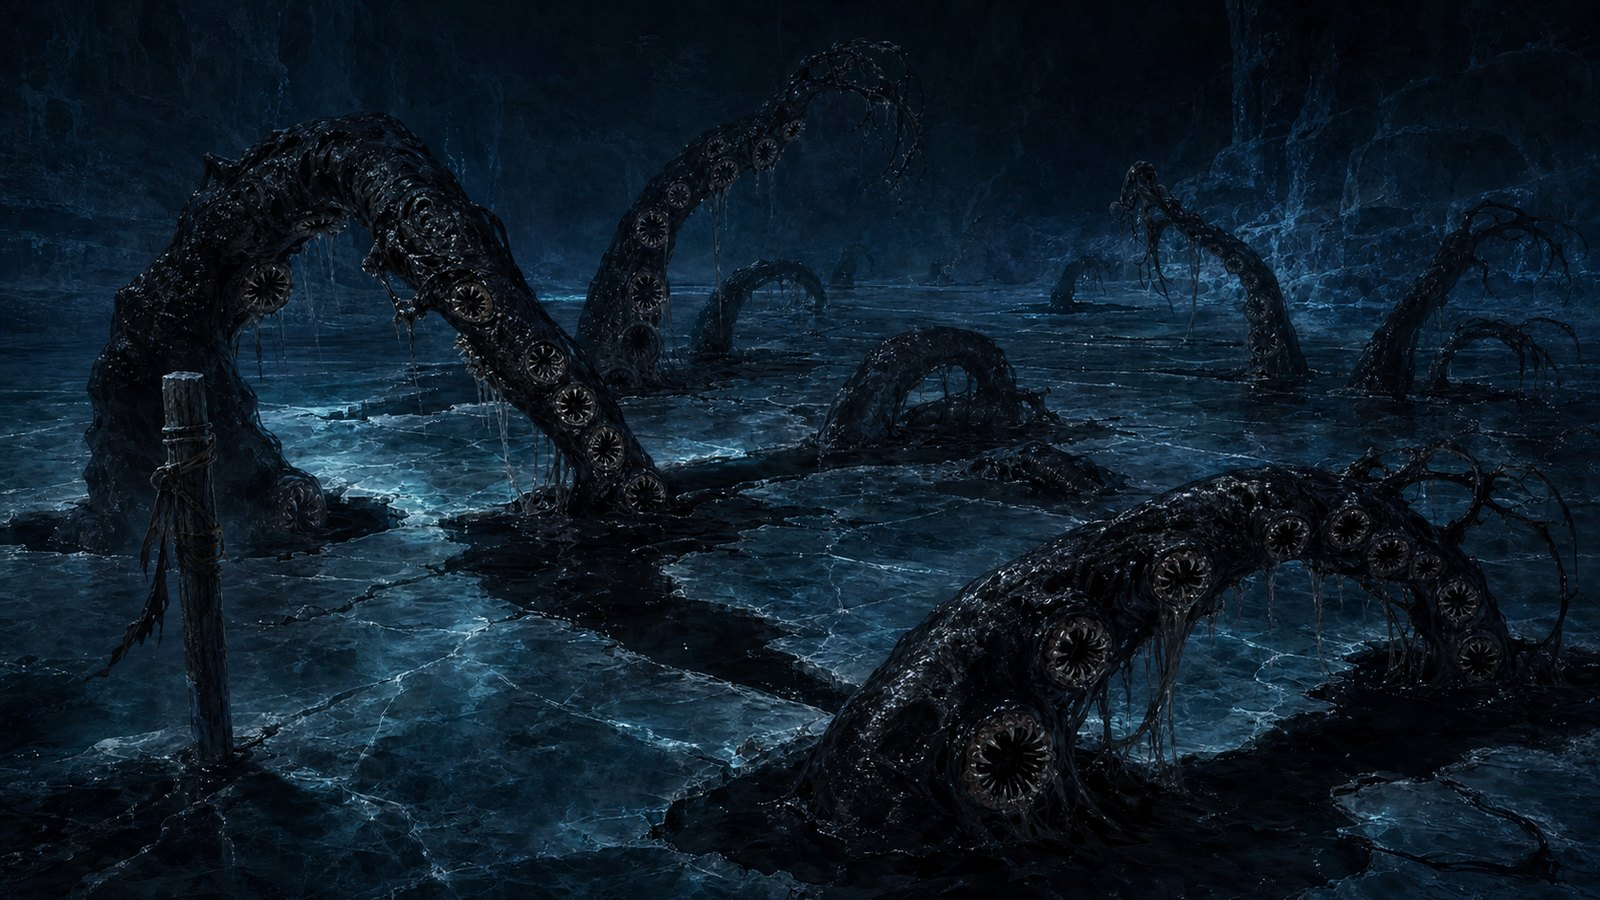
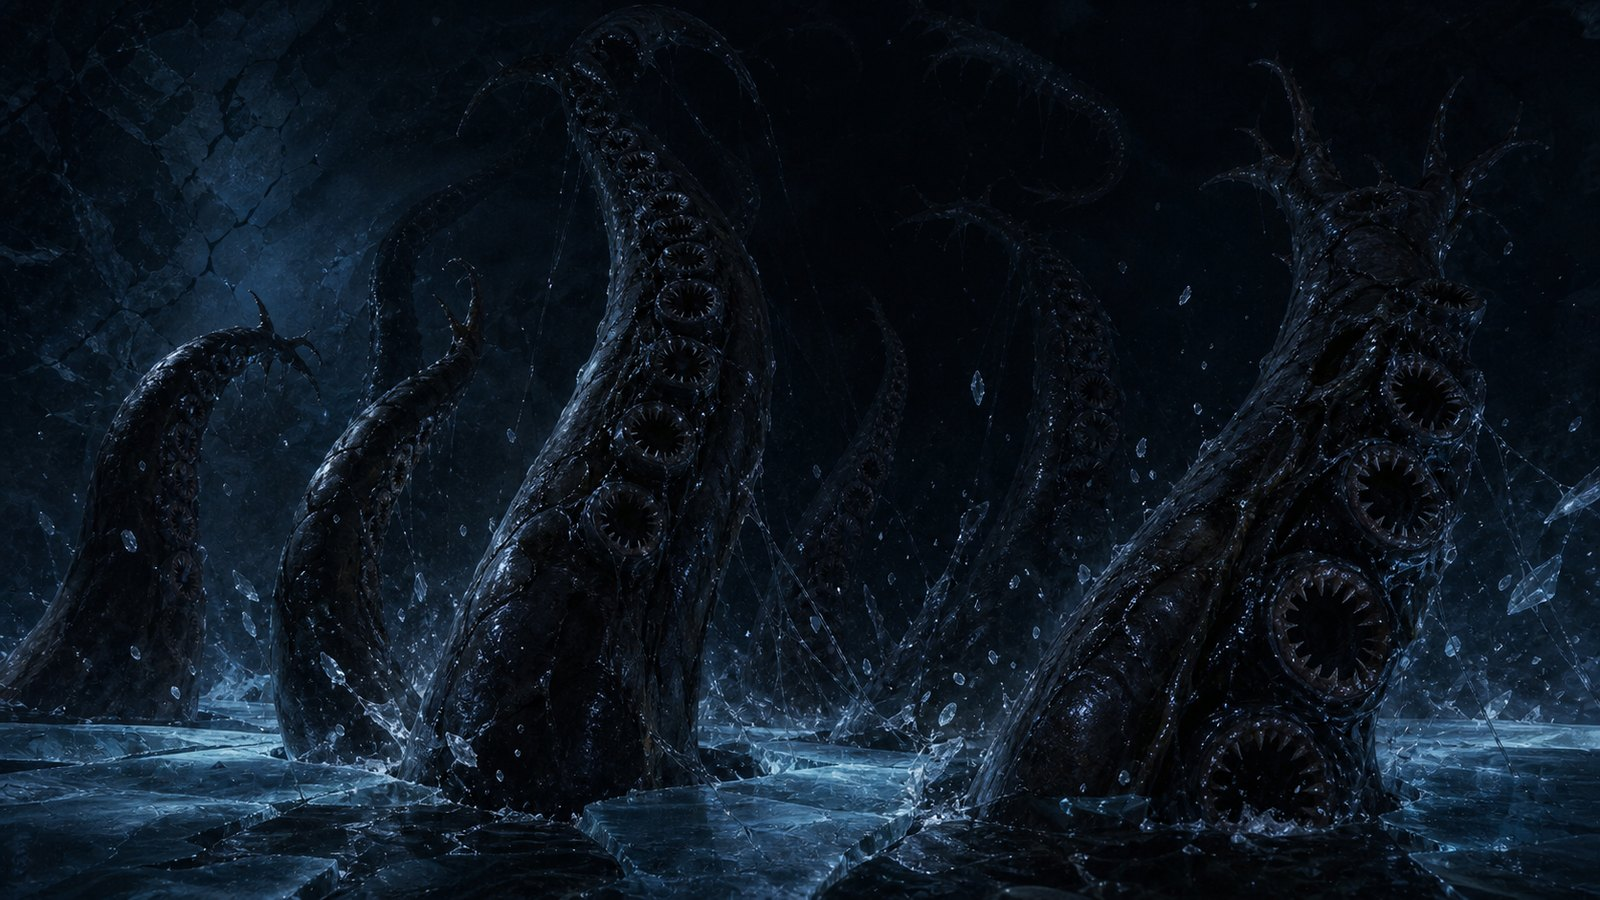
原生生物：ジャイアントスクイードをローアングル版へ差し替え（氷を割って突き上がる触手を見上げる構図・手前の柵/標識杭なし）＋並び順を後輩くん指定に変更（グリンデイル/スクイード/ノースウルフ/フロストスパイダー/エンバーセンティピード/霜蛍）

diff --git a/index.html b/index.html
@@ -840,7 +840,7 @@ footer p { font-size:11.5px; color:var(--dim); max-width:640px; margin:0 auto; l
     <p class="reveal wl-lead">その多くは灯りを恐れて近づいてこない。灯りを保っているかぎり日々の旅は成り立つ。——だが、そうでないものもいる。</p>
     <div class="cs-grid reveal"></div>
     <p class="reveal wl-lead">以下は、開拓団がこれまでに姿を確かめ、名を与えた原生生物である。名をクリックすると、大きく見られる。</p>
-    <div class="cs-grid reveal"><div class="cs-row t-img" style="background-image:url(assets/cr_grendel.jpg)"><i class="tlight" style="background-image:url(assets/cr_grendel.jpg)"></i><button class="cs-k t-open" data-src="assets/cr_grendel.jpg" data-cap="グリンデイル" data-km="回廊の頂点" data-desc="回廊の頂点に立つ魔獣。色白のぶよぶよとした巨躯。鱗も甲殻もない。身をおおう脂に濡れていつも湯気を立てている——熱を持つ生きものなのだ。近づけばあたりの寒さがふと和らぐ。それが唯一の前触れである。成体の眼は濁って塞がり光を見ない。だから灯りをかざしても退きも寄りもしない。狩りは匂いと熱で行う。殺すその一瞬にだけ、身にまとった脂へ火花を散らし、獲物を焼く。常は光らぬ獣が、獲物を焼くときにだけ火をまとうのだ。追い詰められれば自らの脂に火を放ち、全身を炎に包んで暴れる。フロストゲートにはこれに備える討伐者が常駐している。一頭ではない。——大峡谷のどこかに、大きな巣があるらしい。"><b>グリンデイル</b><span class="t-km">回廊の頂点</span></button><div class="cs-v">回廊の頂点に立つ魔獣。色白のぶよぶよとした巨躯。鱗も甲殻もない。身をおおう脂に濡れていつも湯気を立てている——熱を持つ生きものなのだ。近づけばあたりの寒さがふと和らぐ。それが唯一の前触れである。成体の眼は濁って塞がり光を見ない。だから灯りをかざしても退きも寄りもしない。狩りは匂いと熱で行う。殺すその一瞬にだけ、身にまとった脂へ火花を散らし、獲物を焼く。常は光らぬ獣が、獲物を焼くときにだけ火をまとうのだ。追い詰められれば自らの脂に火を放ち、全身を炎に包んで暴れる。フロストゲートにはこれに備える討伐者が常駐している。一頭ではない。——大峡谷のどこかに、大きな巣があるらしい。</div></div><div class="cs-row t-img" style="background-image:url(assets/cr_squid.jpg)"><i class="tlight" style="background-image:url(assets/cr_squid.jpg)"></i><button class="cs-k t-open" data-src="assets/cr_squid.jpg" data-cap="ジャイアントスクイード" data-km="地底湖の底" data-desc="凍った地底湖の底に潜む黒い巨躯。骨を持たない。氷のわずかな割れ目からでも太い腕を何本も伸ばして獲物を絡め取る。腕は斬ってもまた生えてくる。地底湖では雫の音さえ遠くまで響き、氷を踏む震動は水の底へ伝わる。——だから誰も、気づかれずには進めない。回廊でもっとも危険な獣のひとつだ。開拓団は、もっとも厚い氷を選んで街道を敷いた。撃退した記録はひとつもない。あるのは逃げ切った記録だけである。"><b>ジャイアントスクイード</b><span class="t-km">地底湖の底</span></button><div class="cs-v">凍った地底湖の底に潜む黒い巨躯。骨を持たない。氷のわずかな割れ目からでも太い腕を何本も伸ばして獲物を絡め取る。腕は斬ってもまた生えてくる。地底湖では雫の音さえ遠くまで響き、氷を踏む震動は水の底へ伝わる。——だから誰も、気づかれずには進めない。回廊でもっとも危険な獣のひとつだ。開拓団は、もっとも厚い氷を選んで街道を敷いた。撃退した記録はひとつもない。あるのは逃げ切った記録だけである。</div></div><div class="cs-row t-img" style="background-image:url(assets/cr_centipede.jpg)"><i class="tlight" style="background-image:url(assets/cr_centipede.jpg)"></i><button class="cs-k t-open" data-src="assets/cr_centipede.jpg" data-cap="エンバーセンティピード" data-km="焼け跡に群がる" data-desc="腕ほどの太さの体に、無数の脚をうねらせる大型のムカデ。天井と氷壁を伝って這う。焼け跡の温もりに群がり、火のついた灯りに覆いかぶさる。その体で炎を埋めて消してしまう。悪意ではない。ただ熱に集まるだけだ。噛まれれば毒がまわる。"><b>エンバーセンティピード</b><span class="t-km">焼け跡に群がる</span></button><div class="cs-v">腕ほどの太さの体に、無数の脚をうねらせる大型のムカデ。天井と氷壁を伝って這う。焼け跡の温もりに群がり、火のついた灯りに覆いかぶさる。その体で炎を埋めて消してしまう。悪意ではない。ただ熱に集まるだけだ。噛まれれば毒がまわる。</div></div><div class="cs-row t-img" style="background-image:url(assets/cr_frostfly.jpg)"><i class="tlight" style="background-image:url(assets/cr_frostfly.jpg)"></i><button class="cs-k t-open" data-src="assets/cr_frostfly.jpg" data-cap="霜蛍" data-km="灯りを生む虫" data-desc="指先ほどの小さな虫。危機を感じると火のような橙色の光を放つ。だがその光に熱はない。まやかしの火である。回廊の獣の多くは火を恐れる。だから火のふりをして身を守るのだ。この虫を器具にしたものが蛍灯。明るいのに少しも暖かくない灯りである。"><b>霜蛍</b><span class="t-km">灯りを生む虫</span></button><div class="cs-v">指先ほどの小さな虫。危機を感じると火のような橙色の光を放つ。だがその光に熱はない。まやかしの火である。回廊の獣の多くは火を恐れる。だから火のふりをして身を守るのだ。この虫を器具にしたものが蛍灯。明るいのに少しも暖かくない灯りである。</div></div><div class="cs-row t-img" style="background-image:url(assets/cr_frostwolf.jpg)"><i class="tlight" style="background-image:url(assets/cr_frostwolf.jpg)"></i><button class="cs-k t-open" data-src="assets/cr_frostwolf.jpg" data-cap="ノースウルフ" data-km="灯りの輪の外" data-desc="灯りの輪のすぐ外を歩く。同じ速さでいつまでも。輪の中にいるかぎり襲ってはこない。だが輪から出た者や灯りを落とした者だけを確実に仕留める。「離れるな」——この獣が開拓団に教えた掟だ。"><b>ノースウルフ</b><span class="t-km">灯りの輪の外</span></button><div class="cs-v">灯りの輪のすぐ外を歩く。同じ速さでいつまでも。輪の中にいるかぎり襲ってはこない。だが輪から出た者や灯りを落とした者だけを確実に仕留める。「離れるな」——この獣が開拓団に教えた掟だ。</div></div><div class="cs-row t-img" style="background-image:url(assets/cr_frostspider.jpg)"><i class="tlight" style="background-image:url(assets/cr_frostspider.jpg)"></i><button class="cs-k t-open" data-src="assets/cr_frostspider.jpg" data-cap="フロストスパイダー" data-km="天井の待ち伏せ" data-desc="天井と氷壁に張り付いている。氷のように透きとおった脚で。そして上から落ちてくる。旅人の灯りは前と足元へ向けられる。横へは届いても、真上へは届きにくい。その隙をこの獣は知っている。頭上を忘れないことだ。"><b>フロストスパイダー</b><span class="t-km">天井の待ち伏せ</span></button><div class="cs-v">天井と氷壁に張り付いている。氷のように透きとおった脚で。そして上から落ちてくる。旅人の灯りは前と足元へ向けられる。横へは届いても、真上へは届きにくい。その隙をこの獣は知っている。頭上を忘れないことだ。</div></div></div>
+    <div class="cs-grid reveal"><div class="cs-row t-img" style="background-image:url(assets/cr_grendel.jpg)"><i class="tlight" style="background-image:url(assets/cr_grendel.jpg)"></i><button class="cs-k t-open" data-src="assets/cr_grendel.jpg" data-cap="グリンデイル" data-km="回廊の頂点" data-desc="回廊の頂点に立つ魔獣。色白のぶよぶよとした巨躯。鱗も甲殻もない。身をおおう脂に濡れていつも湯気を立てている——熱を持つ生きものなのだ。近づけばあたりの寒さがふと和らぐ。それが唯一の前触れである。成体の眼は濁って塞がり光を見ない。だから灯りをかざしても退きも寄りもしない。狩りは匂いと熱で行う。殺すその一瞬にだけ、身にまとった脂へ火花を散らし、獲物を焼く。常は光らぬ獣が、獲物を焼くときにだけ火をまとうのだ。追い詰められれば自らの脂に火を放ち、全身を炎に包んで暴れる。フロストゲートにはこれに備える討伐者が常駐している。一頭ではない。——大峡谷のどこかに、大きな巣があるらしい。"><b>グリンデイル</b><span class="t-km">回廊の頂点</span></button><div class="cs-v">回廊の頂点に立つ魔獣。色白のぶよぶよとした巨躯。鱗も甲殻もない。身をおおう脂に濡れていつも湯気を立てている——熱を持つ生きものなのだ。近づけばあたりの寒さがふと和らぐ。それが唯一の前触れである。成体の眼は濁って塞がり光を見ない。だから灯りをかざしても退きも寄りもしない。狩りは匂いと熱で行う。殺すその一瞬にだけ、身にまとった脂へ火花を散らし、獲物を焼く。常は光らぬ獣が、獲物を焼くときにだけ火をまとうのだ。追い詰められれば自らの脂に火を放ち、全身を炎に包んで暴れる。フロストゲートにはこれに備える討伐者が常駐している。一頭ではない。——大峡谷のどこかに、大きな巣があるらしい。</div></div><div class="cs-row t-img" style="background-image:url(assets/cr_squid.jpg)"><i class="tlight" style="background-image:url(assets/cr_squid.jpg)"></i><button class="cs-k t-open" data-src="assets/cr_squid.jpg" data-cap="ジャイアントスクイード" data-km="地底湖の底" data-desc="凍った地底湖の底に潜む黒い巨躯。骨を持たない。氷のわずかな割れ目からでも太い腕を何本も伸ばして獲物を絡め取る。腕は斬ってもまた生えてくる。地底湖では雫の音さえ遠くまで響き、氷を踏む震動は水の底へ伝わる。——だから誰も、気づかれずには進めない。回廊でもっとも危険な獣のひとつだ。開拓団は、もっとも厚い氷を選んで街道を敷いた。撃退した記録はひとつもない。あるのは逃げ切った記録だけである。"><b>ジャイアントスクイード</b><span class="t-km">地底湖の底</span></button><div class="cs-v">凍った地底湖の底に潜む黒い巨躯。骨を持たない。氷のわずかな割れ目からでも太い腕を何本も伸ばして獲物を絡め取る。腕は斬ってもまた生えてくる。地底湖では雫の音さえ遠くまで響き、氷を踏む震動は水の底へ伝わる。——だから誰も、気づかれずには進めない。回廊でもっとも危険な獣のひとつだ。開拓団は、もっとも厚い氷を選んで街道を敷いた。撃退した記録はひとつもない。あるのは逃げ切った記録だけである。</div></div><div class="cs-row t-img" style="background-image:url(assets/cr_frostwolf.jpg)"><i class="tlight" style="background-image:url(assets/cr_frostwolf.jpg)"></i><button class="cs-k t-open" data-src="assets/cr_frostwolf.jpg" data-cap="ノースウルフ" data-km="灯りの輪の外" data-desc="灯りの輪のすぐ外を歩く。同じ速さでいつまでも。輪の中にいるかぎり襲ってはこない。だが輪から出た者や灯りを落とした者だけを確実に仕留める。「離れるな」——この獣が開拓団に教えた掟だ。"><b>ノースウルフ</b><span class="t-km">灯りの輪の外</span></button><div class="cs-v">灯りの輪のすぐ外を歩く。同じ速さでいつまでも。輪の中にいるかぎり襲ってはこない。だが輪から出た者や灯りを落とした者だけを確実に仕留める。「離れるな」——この獣が開拓団に教えた掟だ。</div></div><div class="cs-row t-img" style="background-image:url(assets/cr_frostspider.jpg)"><i class="tlight" style="background-image:url(assets/cr_frostspider.jpg)"></i><button class="cs-k t-open" data-src="assets/cr_frostspider.jpg" data-cap="フロストスパイダー" data-km="天井の待ち伏せ" data-desc="天井と氷壁に張り付いている。氷のように透きとおった脚で。そして上から落ちてくる。旅人の灯りは前と足元へ向けられる。横へは届いても、真上へは届きにくい。その隙をこの獣は知っている。頭上を忘れないことだ。"><b>フロストスパイダー</b><span class="t-km">天井の待ち伏せ</span></button><div class="cs-v">天井と氷壁に張り付いている。氷のように透きとおった脚で。そして上から落ちてくる。旅人の灯りは前と足元へ向けられる。横へは届いても、真上へは届きにくい。その隙をこの獣は知っている。頭上を忘れないことだ。</div></div><div class="cs-row t-img" style="background-image:url(assets/cr_centipede.jpg)"><i class="tlight" style="background-image:url(assets/cr_centipede.jpg)"></i><button class="cs-k t-open" data-src="assets/cr_centipede.jpg" data-cap="エンバーセンティピード" data-km="焼け跡に群がる" data-desc="腕ほどの太さの体に、無数の脚をうねらせる大型のムカデ。天井と氷壁を伝って這う。焼け跡の温もりに群がり、火のついた灯りに覆いかぶさる。その体で炎を埋めて消してしまう。悪意ではない。ただ熱に集まるだけだ。噛まれれば毒がまわる。"><b>エンバーセンティピード</b><span class="t-km">焼け跡に群がる</span></button><div class="cs-v">腕ほどの太さの体に、無数の脚をうねらせる大型のムカデ。天井と氷壁を伝って這う。焼け跡の温もりに群がり、火のついた灯りに覆いかぶさる。その体で炎を埋めて消してしまう。悪意ではない。ただ熱に集まるだけだ。噛まれれば毒がまわる。</div></div><div class="cs-row t-img" style="background-image:url(assets/cr_frostfly.jpg)"><i class="tlight" style="background-image:url(assets/cr_frostfly.jpg)"></i><button class="cs-k t-open" data-src="assets/cr_frostfly.jpg" data-cap="霜蛍" data-km="灯りを生む虫" data-desc="指先ほどの小さな虫。危機を感じると火のような橙色の光を放つ。だがその光に熱はない。まやかしの火である。回廊の獣の多くは火を恐れる。だから火のふりをして身を守るのだ。この虫を器具にしたものが蛍灯。明るいのに少しも暖かくない灯りである。"><b>霜蛍</b><span class="t-km">灯りを生む虫</span></button><div class="cs-v">指先ほどの小さな虫。危機を感じると火のような橙色の光を放つ。だがその光に熱はない。まやかしの火である。回廊の獣の多くは火を恐れる。だから火のふりをして身を守るのだ。この虫を器具にしたものが蛍灯。明るいのに少しも暖かくない灯りである。</div></div></div>
     <p class="reveal wl-note">霜蛍（しもぼたる）が危機に瀕して光るのは、光を恐れる獣を遠ざけるためである。蛍灯は、その仕組みを器具にしたものだ。</p>
     <p class="reveal wl-note">灯りの輪の外を、同じ速度でついてくるものがいる。開拓団はそれらをまとめて「外のもの」と呼ぶ。姿を見て戻った者は多くない。——見た者はたいてい、灯りを失った者だからである。</p>
     <p class="reveal wl-note">ただし、灯りを恐れなくなった個体が現れはじめている。ランタンを掲げたまま襲われた例が、すでに複数記録されている。獣は学習する。回廊が開かれてからの十数年は、彼らが灯りに慣れるには十分だった。</p>
